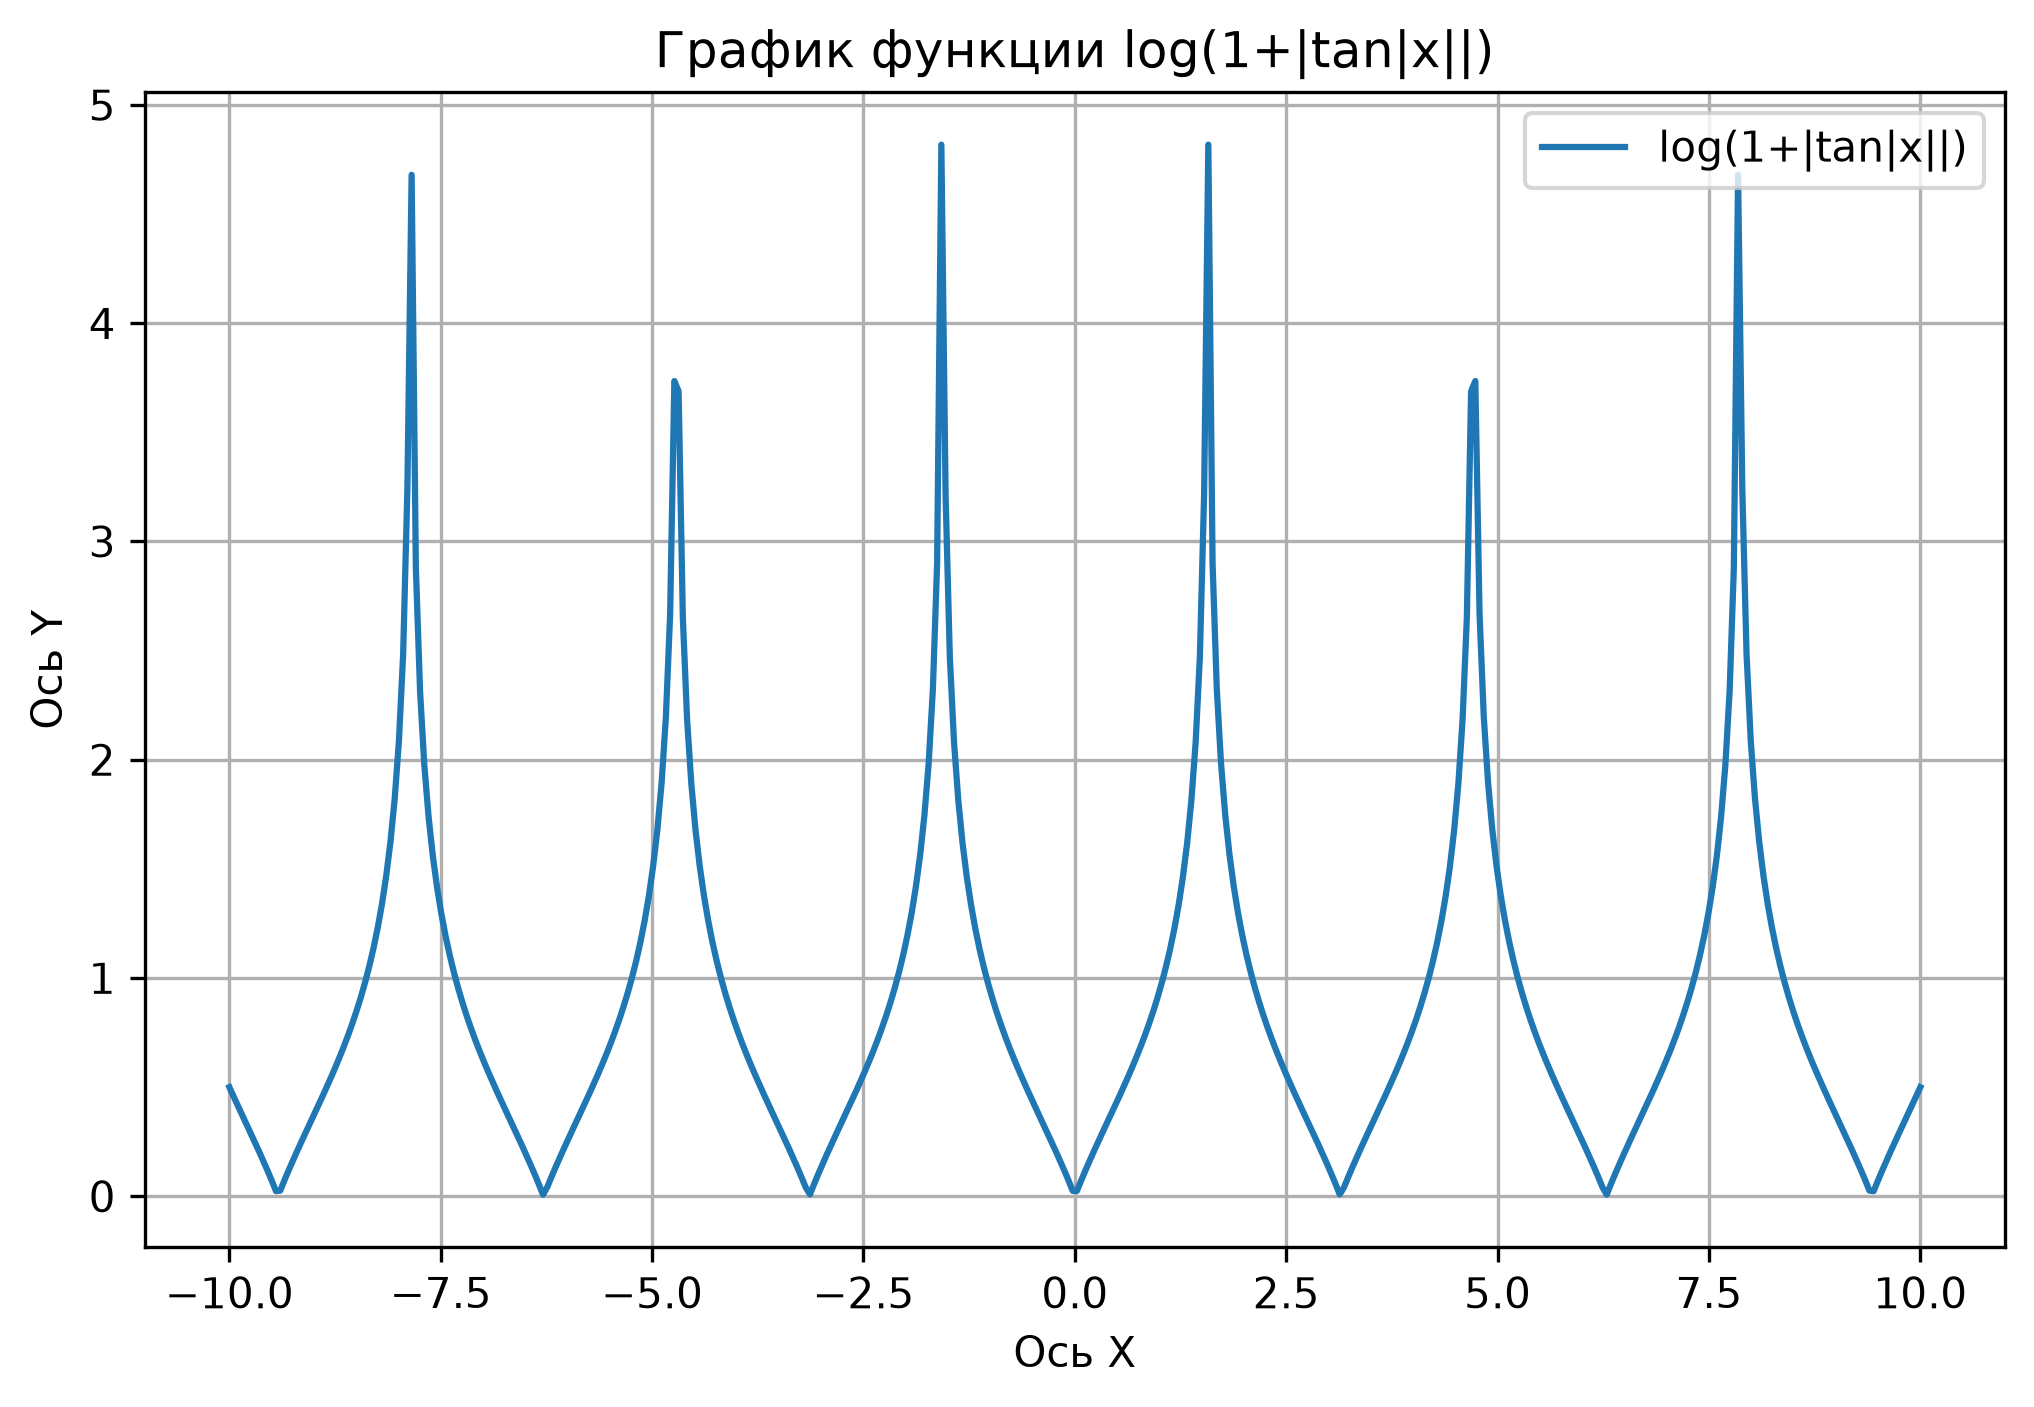
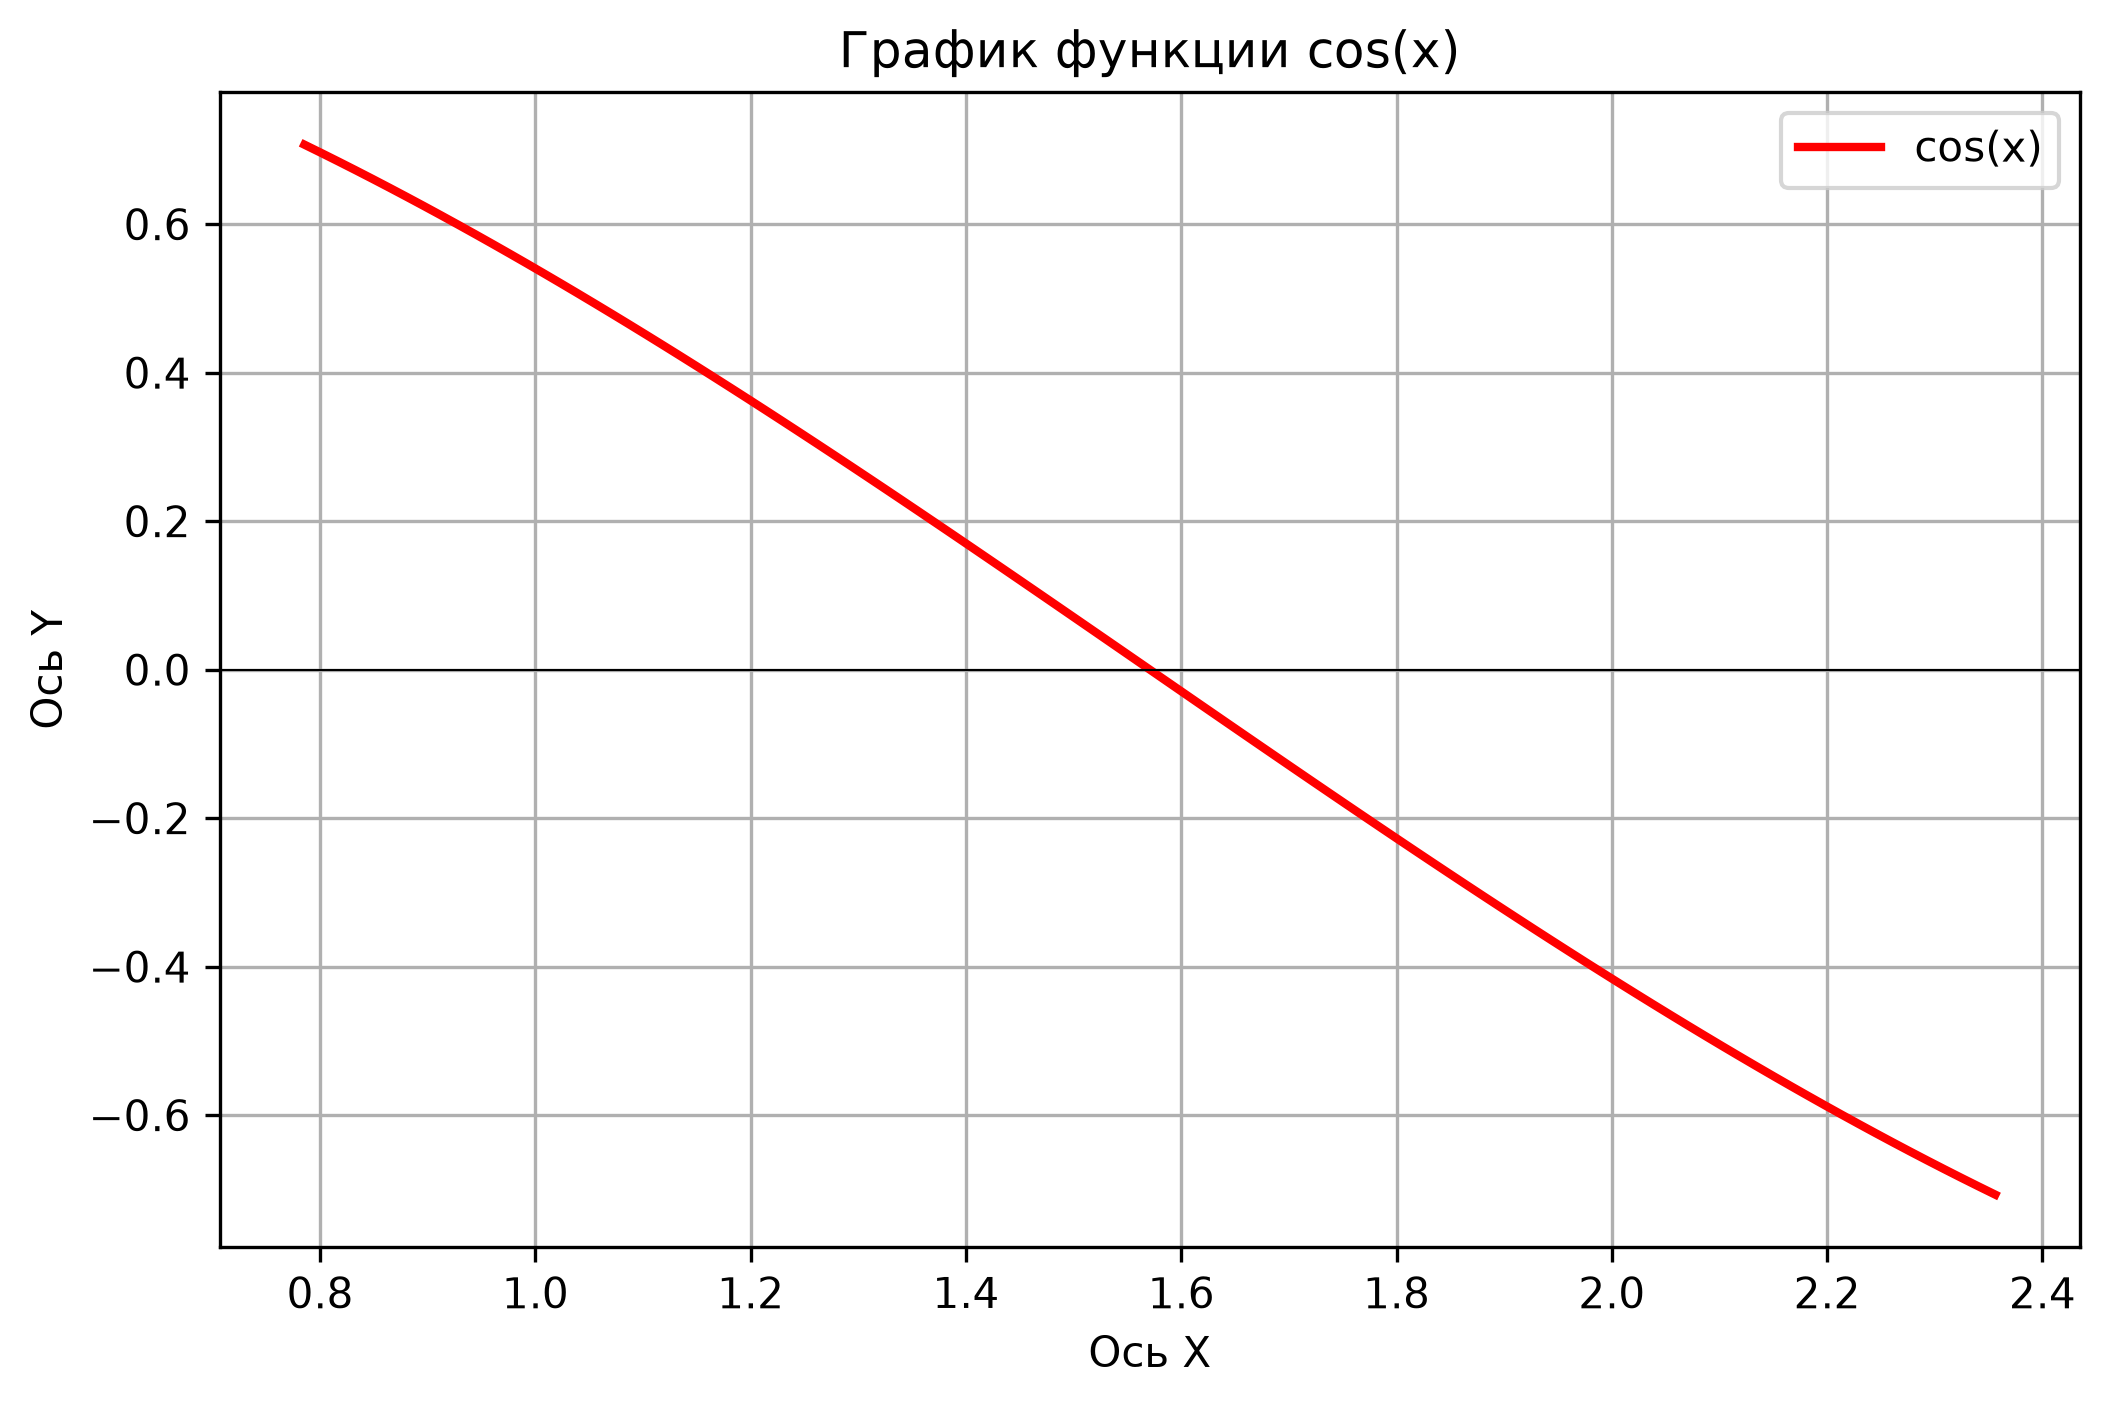
Fixed minor bugs, wrote Docker files for backend and frontend, also used OpenRouter instead of OpenAI
Fixed minor bugs, wrote Docker files for backend and frontend, also used OpenRouter instead of OpenAI

Fixed minor bugs, wrote Docker files for backend and frontend, also used OpenRouter instead of OpenAI

diff --git a/src/agent_system_plots/app.py b/src/agent_system_plots/app.py
@@ -1,5 +1,6 @@
 import requests
 import streamlit as st
+import os
 
 st.set_page_config(page_title="AI agent for data analysis", page_icon="🤖", layout="centered")
 st.title('AI agent for data analysis')
@@ -10,15 +11,18 @@ user_input = st.text_input(
     placeholder='Построй график функции log(tan(x))'
 )
 
+BACKEND_HOST = os.getenv("BACKEND_HOST", "127.0.0.1")
+backend_url = f"http://{BACKEND_HOST}:8000/generate"
+
 if st.button('Сгенерировать график', type = "primary"):
     if not user_input.strip():
-        st.warning("Пожалуйста, введи текст запроса!")
+        st.warning("Пожалуйста, введите текст запроса")
     else:
-        with st.spinner("Агент отправляет запрос к Ollama и выполняет код..."):
+        with st.spinner("Агент отправляет запрос к модели и выполняет код..."):
             try:
-                backend_url = 'http://127.0.0'
-                payload = {'prompt:' user_input}
-
+                payload = {'prompt': user_input}
+                response = requests.post(backend_url, json=payload)
+                
                 if response.status_code == 200:
                     st.image(response.content, caption = 'Сгенерированный график')
                     st.success('Запрос выполнен успешно!')
@@ -26,7 +30,7 @@ if st.button('Сгенерировать график', type = "primary"):
                 else:
                     error_detail = response.json().get('detail', "Ошибка")
                     st.error(f'Ошибка: {error_detail}')
-                except requests.exceptions.ConnectionError:
+            except requests.exceptions.ConnectionError:
                     st.error('Ошибка подключения')
-                except Exception as e:
+            except Exception as e:
                     st.error(f'Произошла ошибка: {e}')

diff --git a/src/agent_system_plots/agent.py b/src/agent_system_plots/agent.py
@@ -1,10 +1,15 @@
 import sys
 import io
+import os
 from openai import OpenAI
+
+#OLLAMA_URL = os.getenv("OLLAMA_BASE_URL", 'http://127.0.0.1:11434/v1')
+OPENAI_BASE_URL = os.getenv("OPENAI_BASE_URL", "https://openrouter.ai")
+OPENAI_API_KEY = os.getenv("OPENAI_API_KEY", "")
 
 client = OpenAI(
     api_key='ollama',
-    base_url='http://127.0.0.1:11434/v1'
+    base_url='http://docker.internal'
 )
 
 SYSTEM_PROMPT = '''
@@ -79,7 +84,7 @@ def extract_and_run_code(llm_output:str) -> str:
 def DA_agent(user_request:str) -> str:
     try:
         response = client.chat.completions.create(
-            model="qwen2.5-coder:3b",
+            model="qwen/qwen3.8-27b:free",
             messages=[
                 {'role':'system', 'content': SYSTEM_PROMPT},
                 {'role':'user', 'content': f'Запрос пользователя: {user_request}'}
